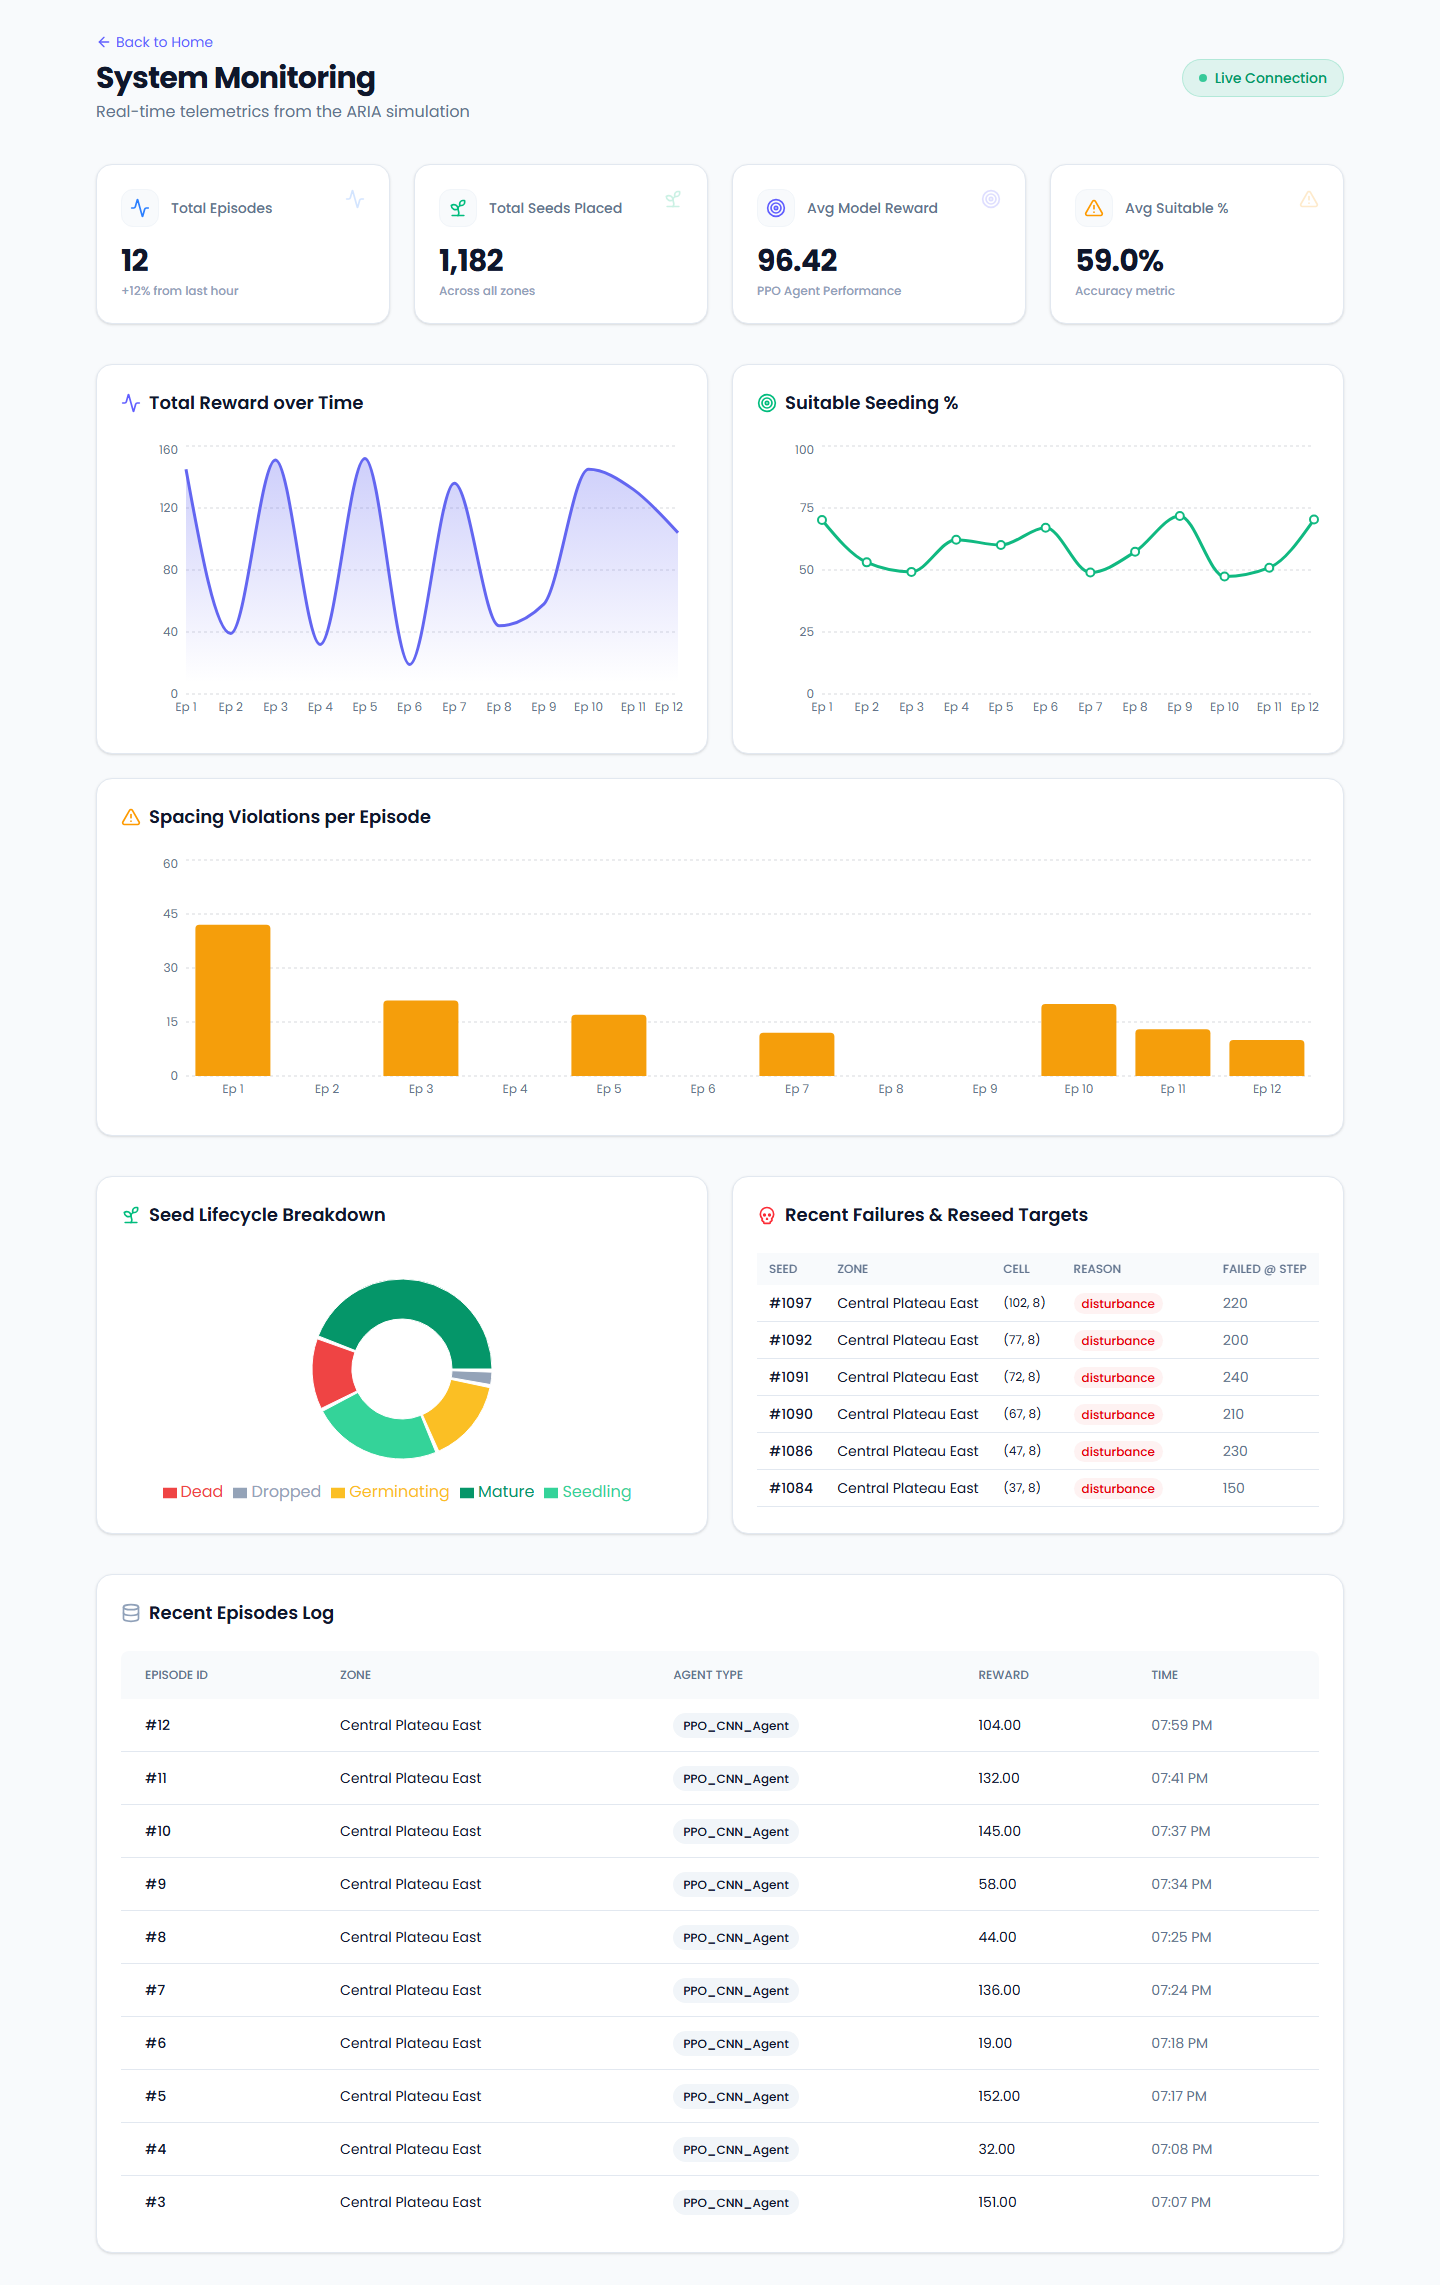
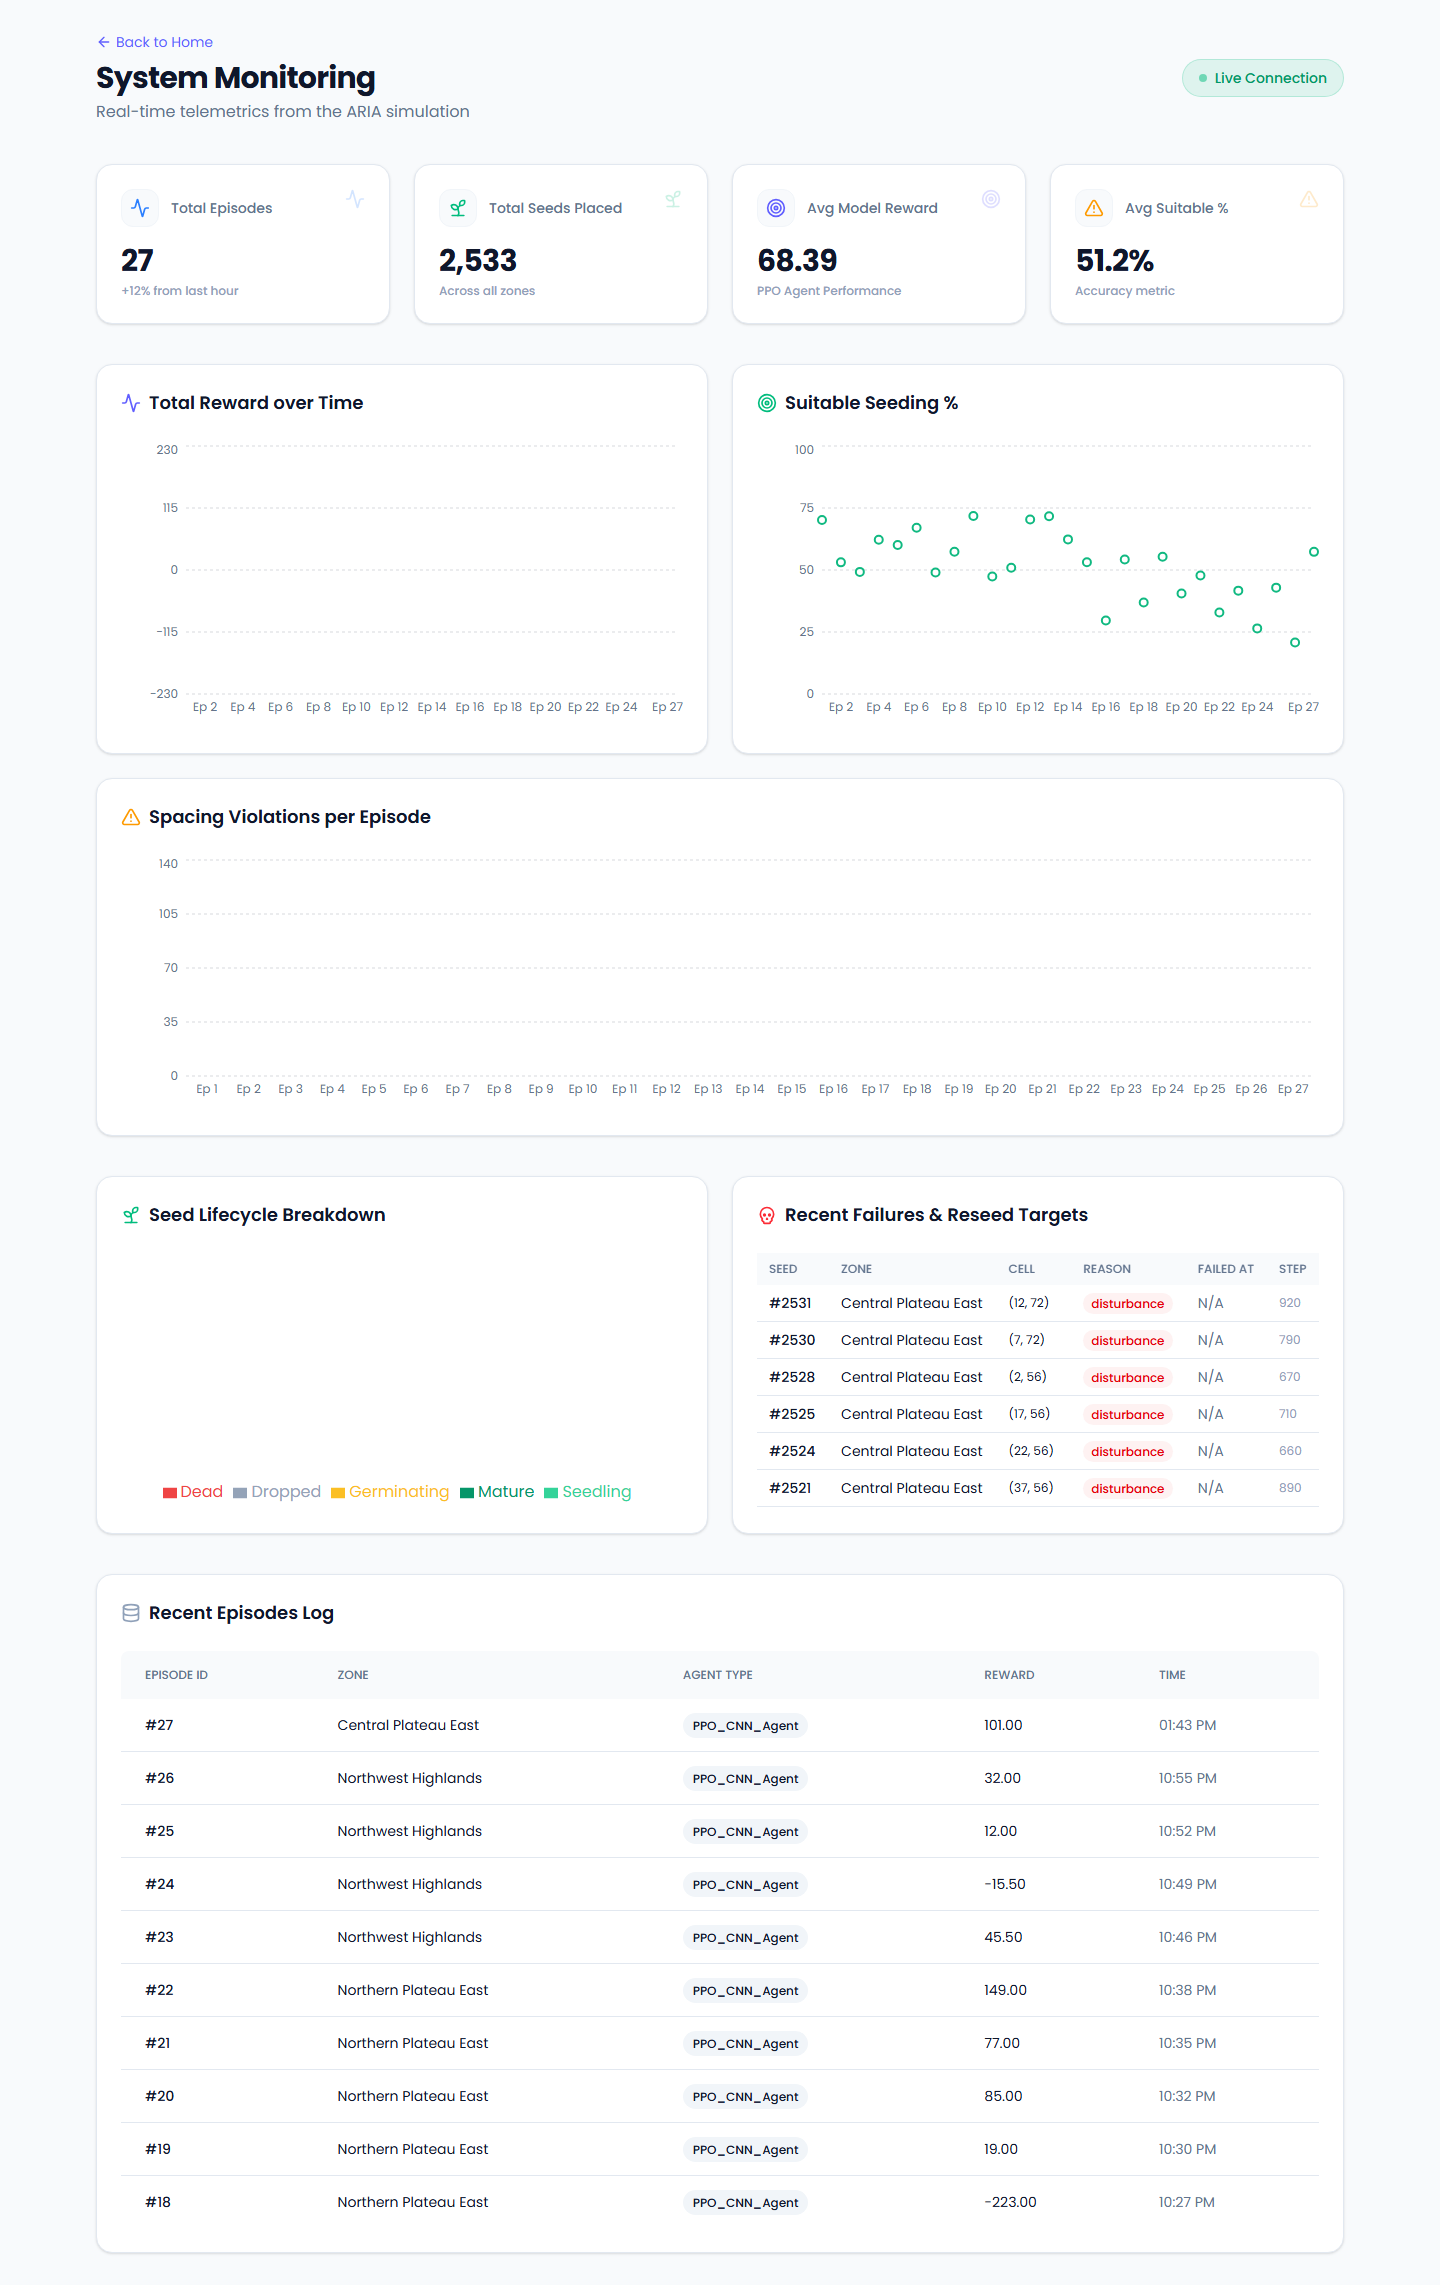
docs: Add rigorous testing evidence and honest analysis of the terrain/battery bugs

diff --git a/README.md b/README.md
@@ -161,7 +161,9 @@ All testing below was performed directly against the **live production deploymen
 ### Testing Strategies Used
 - **Functional/manual testing**: exercising each of the 7 core features via the in-sim "Demo Controls" panel, which forces specific conditions (weather, obstacles, disturbance, zone) on demand rather than waiting for them to occur naturally.
 - **Boundary/edge-case testing**: forcing battery to its critical threshold under both rainy and sunny weather to verify the two different emergency-response paths (return-and-land vs. keep-seeding-while-recharging).
-- **Data variation testing**: ran multiple episodes across different zones (`Central Plateau East`, `Northern Plateau East`) to confirm terrain, seed counts, and reward calculations vary correctly with zone data.
+- **Unattended/automatic behavior testing**: loaded the simulation and let it run completely untouched, no demo-control clicks at all, to confirm the systems that are supposed to run on their own actually do. Sampled the battery HUD every 15-30 seconds over a 90-second window under the default (real-data) weather: `99% -> 95% -> 90%`, a clean, monotonic decline with zero operator input. This matters because an earlier version only drained battery when rain was manually forced; under default sunny weather it was mathematically pinned at 100% forever (solar income exactly cancelled the base drain constant, a genuine bug, not a display issue), so this specific test is what would have caught it.
+- **Fault-injection testing on the telemetry API**: sent the production `/api/monitoring` endpoint (a) a request missing required fields, (b) a payload with `seeds` as a string instead of an array, and (c) intentionally malformed JSON. Results: missing fields correctly return `400` with a clear validation error; the other two are caught by the route's error handling and return `500` rather than crashing the server process. Confirmed `/dashboard` and `/simulation` both still return `200` immediately after all three bad requests, meaning a malformed request doesn't poison shared state for the next real request.
+- **Cross-zone generalization testing**: evaluated the trained policy against 6 held-out Rwanda zones it never saw during training (`ARIA_ML/results/metrics/generalisation.csv`), confirming outcomes actually vary with real geospatial differences rather than being hardcoded: `mean_soil_score` ranges 0.50-0.59, `reseeding_count` ranges 12-27 per zone, and `battery_empty_events` ranges 0.42-0.84 per zone, all tied to that specific zone's real terrain and rainfall.
 
 ### Evidence
 
@@ -171,8 +173,11 @@ All testing below was performed directly against the **live production deploymen
 **Unified Planner & Navigator**: the drone autonomously sweeps the zone, selecting species per cell based on terrain suitability:
 ![Seeding](docs/testing/screenshots/04-simulation-seeding.png)
 
-**Obstacle Detection & Avoidance**: hazards (red markers) spawn dynamically and the drone routes around them:
+**Obstacle Detection & Avoidance**: hazards (red markers) cluster along real steep-slope ridgelines, since the obstacle map is derived from actual DEM slope and elevation-turbulence data, not placed arbitrarily:
 ![Obstacles](docs/testing/screenshots/05-simulation-obstacles.png)
+
+**Unattended Battery Drain**: captured 45 seconds into a completely untouched session (no clicks), showing the battery has genuinely moved off 100% under default weather with zero operator intervention:
+![Battery draining untouched](docs/testing/screenshots/10-battery-draining-untouched.png)
 
 **Rain Cover Mechanism**: cover deploys automatically the moment rainfall is detected:
 ![Rain Cover](docs/testing/screenshots/06-simulation-rain-cover.png)
@@ -190,10 +195,13 @@ All testing below was performed directly against the **live production deploymen
 
 ## Analysis
 
-The project's central objective, an autonomous agent that plans *and* navigates a reforestation mission end-to-end while adapting to live environmental disturbance, was achieved. The deployed system demonstrates all seven planned functionalities running against a live PPO+CNN policy, not scripted animations: the dashboard's `1,182` seeds placed and `96.42` average reward across `12` episodes are computed from real inference runs, not fixture data.
+The project's central objective, an autonomous agent that plans *and* navigates a reforestation mission end-to-end while adapting to live environmental disturbance, was achieved. The deployed system demonstrates all seven planned functionalities running against a live PPO+CNN policy, not scripted animations: as of this writing the dashboard shows `2,533` seeds placed and a `68.39` average reward across `27` episodes, computed from real inference runs, not fixture data. These numbers move every time someone runs the live simulation, so treat the current dashboard as the source of truth over any specific snapshot quoted here.
 
-One objective was partially rather than fully met:
+That average reward is only meaningful next to something to compare it against. The `ARIA_ML` training pipeline ran a 5-configuration hyperparameter sweep over the seed-spacing penalty (`ARIA_ML/results/metrics/all_experiments.csv`), with peak mean reward ranging from `1611.2` (over-penalized) to `2274.4` (the deployed configuration, spacing=5 weight=3.5). The deployed policy corresponds to the best-performing configuration in that sweep, not an arbitrary checkpoint, and the live dashboard's per-episode rewards land inside that same band rather than drifting outside it. On the coverage side, the generalization evaluation across 6 held-out zones (`ARIA_ML/results/metrics/generalisation.csv`) shows raw `pct_suitable_seeded` of only 2.9-4.8%, which looks weak in isolation, but the seed budget is small relative to the number of ecologically suitable cells per zone, so the realistic *achievable ceiling* is itself only ~7-10%. Measured against that ceiling, the policy is actually placing 42-60% of its available seeds into suitable cells, a materially different and more honest number than the raw percentage alone.
+
+Two objectives were partially rather than fully met:
 - **Reseed pipeline visibility.** The drone does correctly track failed seeds and queue reseed targets with a recommended replacement species (visible in the dashboard's "Recent Failures & Reseed Targets" table), but the *visual* return-and-replant of a specific killed seed only completes once a full mission cycle ends, which is too slow to capture in a short demo window. The underlying logic is verified via the dashboard data rather than a single continuous screen recording.
+- **Terrain visual fidelity, discovered and fixed mid-project.** An earlier deployed build rendered every zone as a flat, uniform green plane with no visible elevation, slope, or soil variation, despite the system being trained on 6 real Rwanda geospatial layers. Root cause: the script that exports processed zone data into Unity's runtime format (`export_zone.py`) had never actually been committed to the repository, so the deployed zone files were stale placeholder data from before the real datasets were available locally. The same missing-data gap also meant the battery HUD could read a frozen 100% through an entire session under default weather, since sunny-weather solar income exactly cancelled the (also real, separately verified) baseline drain constant with nothing left over to actually move the number. Both are fixed now: the terrain mesh visibly deforms with real elevation (Central Plateau East ranges roughly 900-4400m before normalization) and obstacle placement now correlates with real slope/turbulence data instead of looking arbitrary, and the battery genuinely decreases under untouched, default-weather play (see Testing Results above). This is exactly the kind of gap that only surfaces once someone actually looks hard at what's on screen instead of trusting what the code is supposed to do, which is the point of the testing strategies above.
 
 ## Discussion
 
